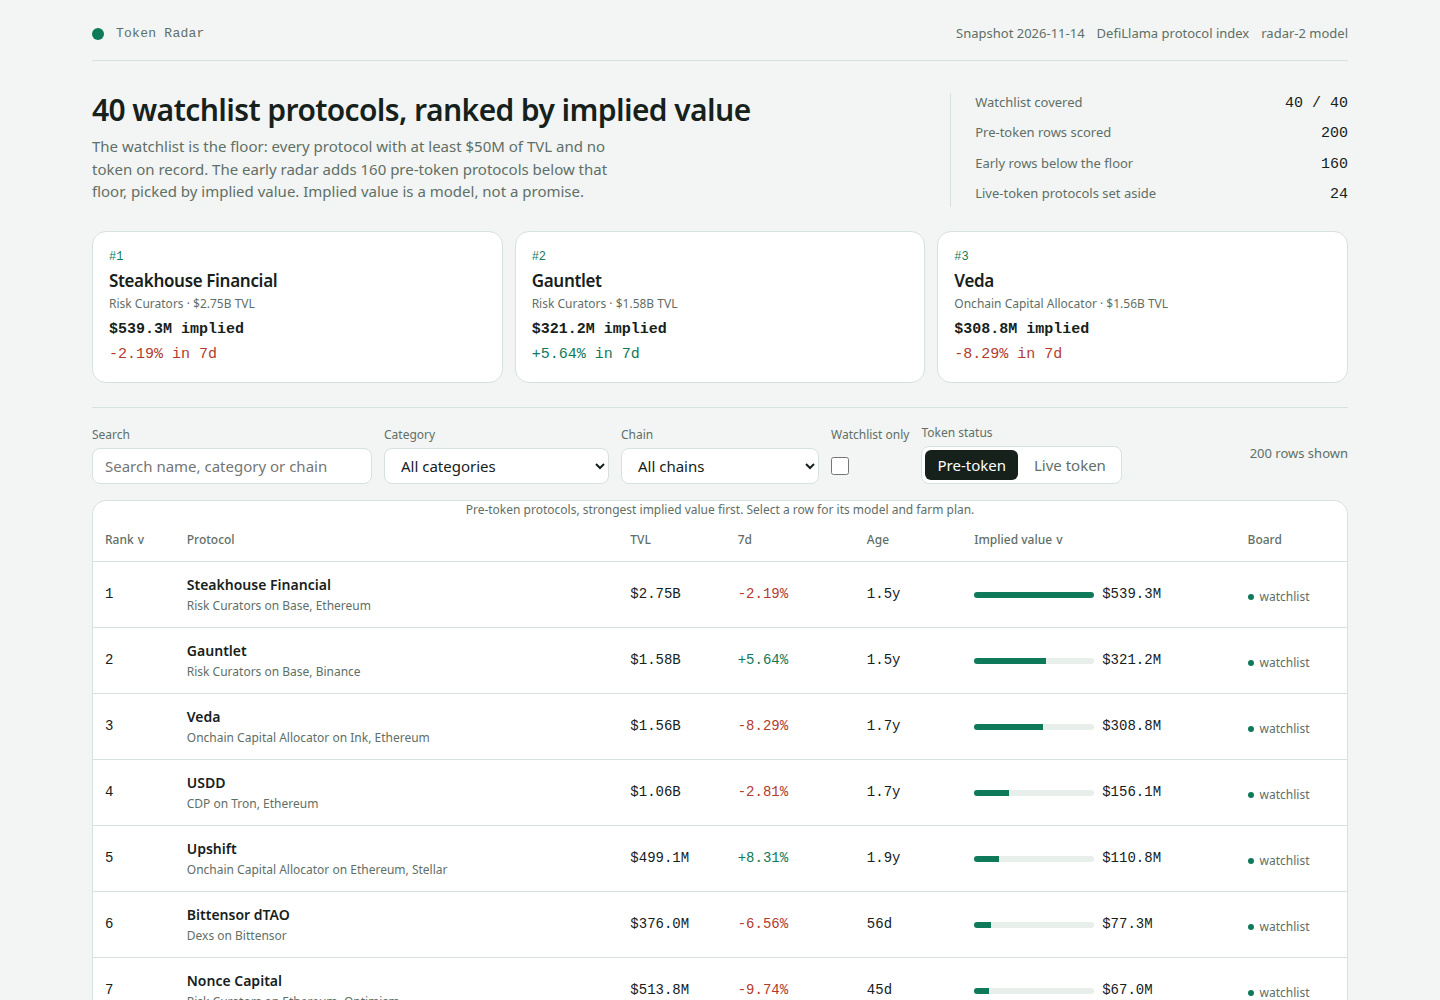
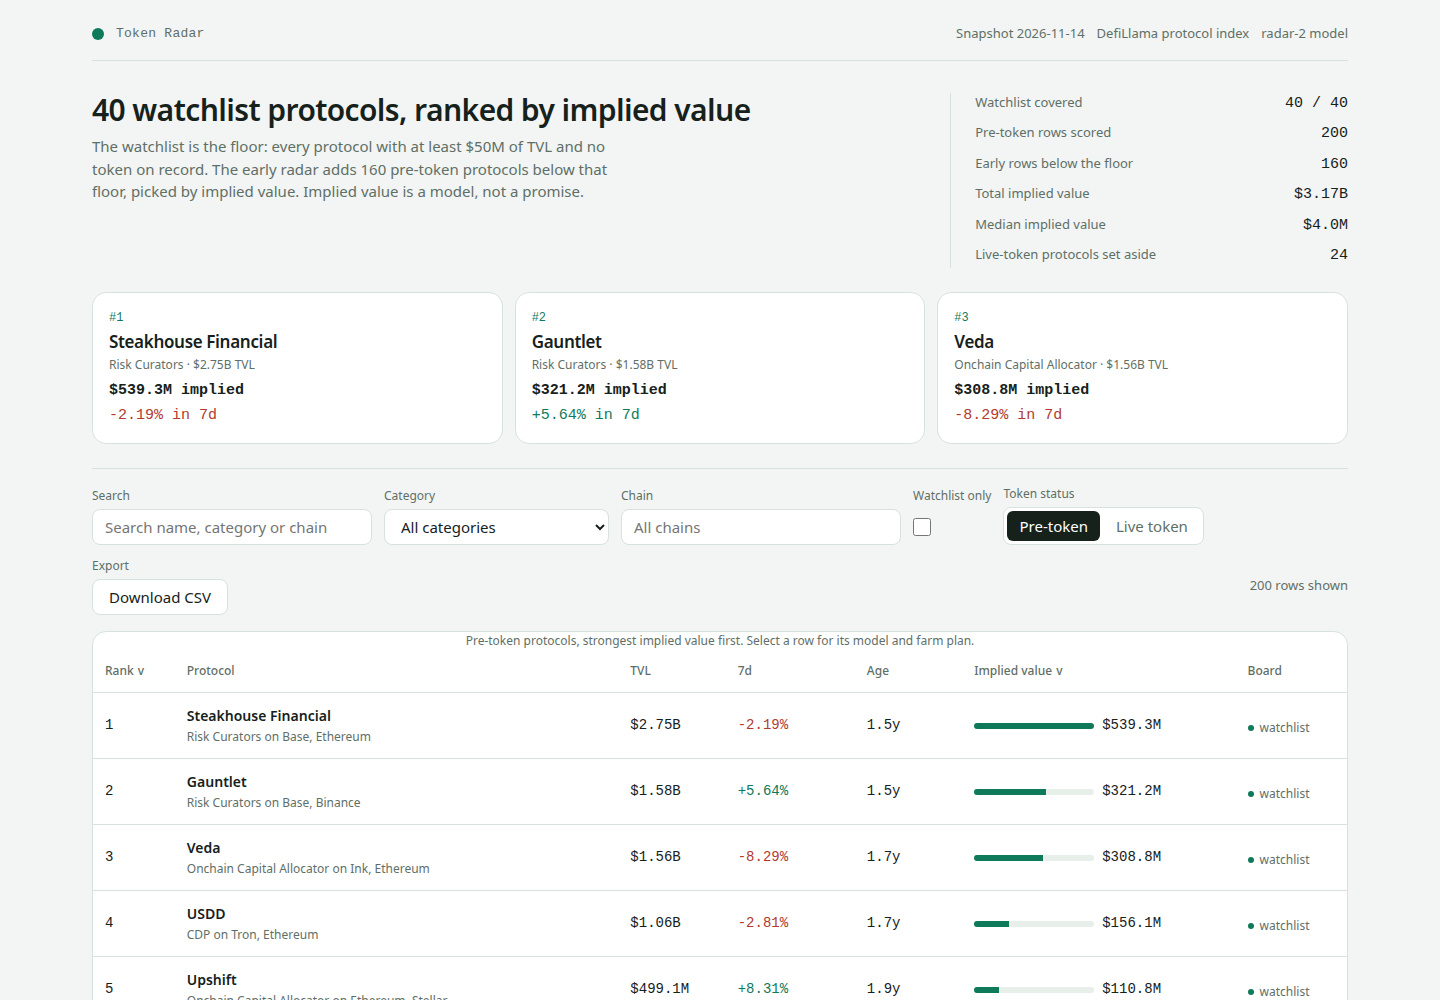
Authorship batch 2: parseSnapshot helpers, CSV export, board stats, chain datalist, README docs, fresh screenshots

diff --git a/dashboard/app.js b/dashboard/app.js
@@ -8,7 +8,7 @@
   var DATA = window.RADAR;
   if (!DATA) return;
   var app = document.getElementById('board');
-  var state = { q: '', category: 'all', chain: 'all', watchlistOnly: false, tab: 'pre-token', sort: 'implied', dir: -1, selected: null, sandbox: null };
+  var state = { q: '', category: 'all', chain: '', watchlistOnly: false, tab: 'pre-token', sort: 'implied', dir: -1, selected: null, sandbox: null };
   var WATCHLIST = {};
   (DATA.watchlist || []).forEach(function (s) { WATCHLIST[s] = true; });
 
@@ -157,7 +157,7 @@
     var params = new URLSearchParams();
     if (state.q) params.set('q', state.q);
     if (state.category !== 'all') params.set('category', state.category);
-    if (state.chain !== 'all') params.set('chain', state.chain);
+    if (state.chain) params.set('chain', state.chain);
     if (state.watchlistOnly) params.set('w', '1');
     if (state.selected) params.set('p', state.selected);
     var next = params.toString();
@@ -169,7 +169,7 @@
     var q = state.q.trim().toLowerCase();
     return DATA.rows.filter(function (r) {
       if (state.category !== 'all' && r.category !== state.category) return false;
-      if (state.chain !== 'all' && !(r.chains || []).some(function (c) { return c === state.chain; })) return false;
+      if (state.chain && !(r.chains || []).some(function (c) { return c.toLowerCase().indexOf(state.chain.toLowerCase()) >= 0; })) return false;
       if (state.watchlistOnly && !WATCHLIST[r.slug]) return false;
       if (!q) return true;
       var hay = [r.name, r.slug, r.category, (r.chains || []).join(' ')].join(' ').toLowerCase();
@@ -203,6 +203,9 @@
   }
 
   function lede() {
+    var total = DATA.rows.reduce(function (sum, r) { return sum + r.implied_value_usd; }, 0);
+    var sorted = DATA.rows.map(function (r) { return r.implied_value_usd; }).sort(function (a, b) { return a - b; });
+    var mid = sorted[Math.floor(sorted.length / 2)];
     return el('section', { class: 'lede' },
       el('div', null,
         el('h1', { text: DATA.watchlist_size + ' watchlist protocols, ranked by implied value' }),
@@ -212,6 +215,8 @@
         el('div', { class: 'fact' }, el('span', { text: 'Watchlist covered' }), el('b', { text: DATA.watchlist_size + ' / ' + DATA.watchlist_size })),
         el('div', { class: 'fact' }, el('span', { text: 'Pre-token rows scored' }), el('b', { text: String(DATA.board_size) })),
         el('div', { class: 'fact' }, el('span', { text: 'Early rows below the floor' }), el('b', { text: String(DATA.early_size) })),
+        el('div', { class: 'fact' }, el('span', { text: 'Total implied value' }), el('b', { text: fmtUsd(total) })),
+        el('div', { class: 'fact' }, el('span', { text: 'Median implied value' }), el('b', { text: fmtUsd(mid) })),
         el('div', { class: 'fact' }, el('span', { text: 'Live-token protocols set aside' }), el('b', { text: String(DATA.live_size) }))
       )
     );
@@ -237,7 +242,12 @@
     var categories = Array.from(new Set(DATA.rows.map(function (r) { return r.category || 'Other'; }))).sort();
     var chainCounts = {};
     DATA.rows.forEach(function (r) { (r.chains || []).forEach(function (c) { chainCounts[c] = (chainCounts[c] || 0) + 1; }); });
-    var chains = Object.keys(chainCounts).sort(function (a, b) { return chainCounts[b] - chainCounts[a]; }).slice(0, 12);
+    var chains = Object.keys(chainCounts).sort(function (a, b) { return chainCounts[b] - chainCounts[a]; });
+    var chainInput = el('input', { type: 'text', id: 'chain', list: 'chain-list', placeholder: 'All chains', value: state.chain, 'aria-label': 'Filter by chain' });
+    chainInput.addEventListener('input', function () { state.chain = chainInput.value; writeHash(); render(); });
+    var chainList = el('datalist', { id: 'chain-list' },
+      chains.map(function (c) { return el('option', { value: c, text: c + ' (' + chainCounts[c] + ')' }); })
+    );
     var search = el('input', { type: 'search', id: 'q', placeholder: 'Search name, category or chain', value: state.q, 'aria-label': 'Search the board' });
     search.addEventListener('input', function () { state.q = search.value; writeHash(); render(); });
     var select = el('select', { id: 'category', 'aria-label': 'Filter by category' },
@@ -245,23 +255,50 @@
       categories.map(function (c) { return el('option', { value: c, text: c, selected: c === state.category ? 'selected' : null }); })
     );
     select.addEventListener('change', function () { state.category = select.value; writeHash(); render(); });
-    var chainSelect = el('select', { id: 'chain', 'aria-label': 'Filter by chain' },
-      el('option', { value: 'all', text: 'All chains' }),
-      chains.map(function (c) { return el('option', { value: c, text: c + ' (' + chainCounts[c] + ')', selected: c === state.chain ? 'selected' : null }); })
-    );
-    chainSelect.addEventListener('change', function () { state.chain = chainSelect.value; writeHash(); render(); });
     var wl = el('input', { type: 'checkbox', id: 'watchlist-only', checked: state.watchlistOnly ? 'checked' : null });
     wl.addEventListener('change', function () { state.watchlistOnly = wl.checked; writeHash(); render(); });
     var pre = el('button', { type: 'button', 'aria-pressed': state.tab === 'pre-token' ? 'true' : 'false', text: 'Pre-token', onclick: function () { state.tab = 'pre-token'; render(); } });
     var live = el('button', { type: 'button', 'aria-pressed': state.tab === 'live' ? 'true' : 'false', text: 'Live token', onclick: function () { state.tab = 'live'; render(); } });
+    var csv = el('button', { class: 'button', type: 'button', text: 'Download CSV', onclick: function () { downloadCsv(); } });
     return el('div', { class: 'controls' },
       el('div', { class: 'field' }, el('label', { for: 'q', text: 'Search' }), search),
       el('div', { class: 'field' }, el('label', { for: 'category', text: 'Category' }), select),
-      el('div', { class: 'field' }, el('label', { for: 'chain', text: 'Chain' }), chainSelect),
+      el('div', { class: 'field' }, el('label', { for: 'chain', text: 'Chain' }), chainInput, chainList),
       el('div', { class: 'field check' }, el('label', { for: 'watchlist-only', text: 'Watchlist only' }), wl),
       el('div', { class: 'field' }, el('span', { class: 'sub', text: 'Token status' }), el('div', { class: 'tabs' }, pre, live)),
+      el('div', { class: 'field' }, el('span', { class: 'sub', text: 'Export' }), csv),
       el('span', { class: 'count', text: state.tab === 'pre-token' ? rows().length + ' rows shown' : DATA.live.length + ' live-token protocols' })
     );
+  }
+
+  // The board as a spreadsheet: the rows on screen, in the order on screen, with the canonical
+  // implied values. A download, not a link: the page stays offline.
+  function downloadCsv() {
+    var list = state.tab === 'pre-token' ? sortedRows(rows()) : DATA.live;
+    function cell(v) {
+      var s = v === null || v === undefined ? '' : String(v);
+      return /[",\n]/.test(s) ? '"' + s.replace(/"/g, '""') + '"' : s;
+    }
+    var lines = ['rank,name,slug,category,chains,tvl_usd,change_7d,age_days,implied_value_usd'];
+    list.forEach(function (r) {
+      lines.push([
+        r.rank !== undefined ? r.rank : 'live',
+        cell(r.name), cell(r.slug), cell(r.category || ''),
+        cell((r.chains || []).join(';')),
+        r.tvl_usd, r.change_7d === null ? '' : r.change_7d,
+        r.age_days === null || r.age_days === undefined ? '' : r.age_days,
+        r.implied_value_usd !== undefined ? r.implied_value_usd : ''
+      ].join(','));
+    });
+    var blob = new Blob([lines.join('\n') + '\n'], { type: 'text/csv;charset=utf-8' });
+    var url = URL.createObjectURL(blob);
+    var a = document.createElement('a');
+    a.href = url;
+    a.download = 'token-radar-' + DATA.as_of + '.csv';
+    document.body.appendChild(a);
+    a.click();
+    a.remove();
+    setTimeout(function () { URL.revokeObjectURL(url); }, 1000);
   }
 
   function sortHeader(key, label) {
@@ -279,7 +316,7 @@
       return el('div', { class: 'panel' }, el('div', { class: 'empty' },
         el('h2', { text: 'No protocol matches that filter' }),
         el('p', { text: 'Clear the search or pick another category to see the board again.' }),
-        el('button', { class: 'button primary', type: 'button', text: 'Clear filters', onclick: function () { state.q = ''; state.category = 'all'; state.chain = 'all'; state.watchlistOnly = false; writeHash(); render(); } })
+        el('button', { class: 'button primary', type: 'button', text: 'Clear filters', onclick: function () { state.q = ''; state.category = 'all'; state.chain = ''; state.watchlistOnly = false; writeHash(); render(); } })
       ));
     }
     var max = effectiveValue(list[0]) || 1;

diff --git a/lib/model.ts b/lib/model.ts
@@ -566,6 +566,47 @@ export function buildRadar(snapshot: Snapshot, model: ModelConstants = MODEL): {
   return { board, radar };
 }
 
+/** A nullable finite number from an unknown value, else null. */
+function asNullableNumber(value: unknown): number | null {
+  return typeof value === 'number' && Number.isFinite(value) ? value : null;
+}
+
+/** A nullable string from an unknown value, else null. */
+function asNullableString(value: unknown): string | null {
+  return typeof value === 'string' ? value : null;
+}
+
+/** The string entries of an unknown value, else an empty list. */
+function asStringArray(value: unknown): string[] {
+  return Array.isArray(value) ? value.filter((c): c is string => typeof c === 'string') : [];
+}
+
+/** One protocol entry out of a snapshot's protocols array, refused unless it is scorable. */
+function parseProtocol(value: unknown, i: number): SnapshotProtocol {
+  if (typeof value !== 'object' || value === null || Array.isArray(value)) {
+    throw new SnapshotError(`snapshot.json's protocol ${i} is not an object`);
+  }
+  const p = value as Record<string, unknown>;
+  if (typeof p.slug !== 'string' || typeof p.name !== 'string' || typeof p.tvl_usd !== 'number' || !Number.isFinite(p.tvl_usd)) {
+    throw new SnapshotError(`snapshot.json's protocol ${i} lacks a slug, a name or a TVL`);
+  }
+  if (p.tvl_usd < 0) {
+    throw new SnapshotError(`snapshot.json's protocol ${i} (${p.slug}) has a negative TVL`);
+  }
+  return {
+    slug: p.slug,
+    name: p.name,
+    category: asNullableString(p.category),
+    chains: asStringArray(p.chains),
+    tvl_usd: p.tvl_usd,
+    change_7d: asNullableNumber(p.change_7d),
+    mcap_usd: asNullableNumber(p.mcap_usd),
+    listed_at: asNullableString(p.listed_at),
+    gecko_id: asNullableString(p.gecko_id),
+    symbol: asNullableString(p.symbol),
+  };
+}
+
 /** The snapshot out of a file's text, refused unless it is the shape the model scores. */
 export function parseSnapshot(text: string): Snapshot {
   let raw: unknown;
@@ -581,30 +622,11 @@ export function parseSnapshot(text: string): Snapshot {
   if (typeof o.floor_usd !== 'number' || !Number.isSafeInteger(o.floor_usd) || o.floor_usd <= 0) throw new SnapshotError('snapshot.json has no floor_usd');
   if (!Array.isArray(o.protocols)) throw new SnapshotError('snapshot.json has no protocols array');
   if (!Array.isArray(o.watchlist) || o.watchlist.some((s) => typeof s !== 'string')) throw new SnapshotError('snapshot.json has no watchlist of slugs');
-  const protocols = o.protocols.map((v, i) => {
-    if (typeof v !== 'object' || v === null || Array.isArray(v)) throw new SnapshotError(`snapshot.json's protocol ${i} is not an object`);
-    const p = v as Record<string, unknown>;
-    if (typeof p.slug !== 'string' || typeof p.name !== 'string' || typeof p.tvl_usd !== 'number' || !Number.isFinite(p.tvl_usd)) {
-      throw new SnapshotError(`snapshot.json's protocol ${i} lacks a slug, a name or a TVL`);
-    }
-    return {
-      slug: p.slug,
-      name: p.name,
-      category: typeof p.category === 'string' ? p.category : null,
-      chains: Array.isArray(p.chains) ? p.chains.filter((c): c is string => typeof c === 'string') : [],
-      tvl_usd: p.tvl_usd,
-      change_7d: typeof p.change_7d === 'number' && Number.isFinite(p.change_7d) ? p.change_7d : null,
-      mcap_usd: typeof p.mcap_usd === 'number' && Number.isFinite(p.mcap_usd) ? p.mcap_usd : null,
-      listed_at: typeof p.listed_at === 'string' ? p.listed_at : null,
-      gecko_id: typeof p.gecko_id === 'string' ? p.gecko_id : null,
-      symbol: typeof p.symbol === 'string' ? p.symbol : null,
-    };
-  });
   return {
     as_of: o.as_of,
     source: o.source,
     floor_usd: o.floor_usd,
-    protocols,
+    protocols: o.protocols.map((v, i) => parseProtocol(v, i)),
     watchlist: o.watchlist as string[],
   };
 }

diff --git a/dashboard/index.html b/dashboard/index.html
@@ -3,12 +3,15 @@
 <head>
 <meta charset="utf-8">
 <meta name="viewport" content="width=device-width, initial-scale=1">
+<meta name="description" content="Token Radar ranks pre-token protocols by implied launch value, learned from the market's own pricing of live tokens.">
+<meta name="theme-color" content="#0f7a5a">
 <title>Token Radar: pre-token protocols ranked by implied value</title>
 <link rel="stylesheet" href="app.css">
 </head>
 <body>
 <a class="skip" href="#board">Skip to the board</a>
 <main id="board" tabindex="-1" aria-busy="true"></main>
+<noscript><p class="noscript">Token Radar needs JavaScript: the board is rendered in your browser from the snapshot data beside this page, with no network.</p></noscript>
 <script src="../data.js"></script>
 <script src="app.js"></script>
 </body>

diff --git a/dashboard/app.css b/dashboard/app.css
@@ -128,8 +128,8 @@ tbody tr[data-selected="true"] { background: color-mix(in srgb, var(--accent) 8%
 .steps b { display: block; font-weight: 500; }
 .cost { color: var(--muted); font-size: 12px; font-family: var(--font-num); }
 
-.spotlight { display: grid; grid-template-columns: repeat(3, 1fr); gap: var(--step-3); padding-bottom: var(--step-5); }
-.spot {
+.noscript { max-width: 1320px; margin: var(--step-5) auto; padding: 0 var(--step-6); color: var(--muted); }
+.spotlight { display: grid; grid-template-columns: repeat(3, 1fr); gap: var(--step-3); padding-bottom: var(--step-5); }.spot {
   display: grid; gap: 2px; text-align: left; padding: var(--step-4);
   background: var(--surface); border: 1px solid var(--border); border-radius: var(--radius-panel);
 }

diff --git a/README.md b/README.md
@@ -6,15 +6,41 @@
 
 Token Radar (model radar-2): ranks pre-token protocols by implied launch value from a sealed DefiLlama snapshot (758 protocols, 2026-11-14). The board covers all 40 watchlist protocols plus 160 early-radar rows below the $50M floor, picked by implied value.
 
-The multiple is the market's own pricing, learned from the snapshot: each category's median market-cap / TVL over its live-token protocols (at least 3; fewer, and the global median is used), clamped to [0.05, 1.0]. Implied value is TVL × multiple × a growth factor (7-day change, clamped) × a maturity factor (time listed with no token) × a chain-breadth factor. No protocol name is special-cased; the same function scores every row, and the dashboard recomputes each row from the same figures.
+## The model
 
-The static dashboard (no network) shows the ranked board with search, category and chain filters, a watchlist toggle, a top-3 spotlight, the category multiples table, and a per-protocol detail drawer with the full model breakdown and a 7-step farm plan (action, cost, time, and a risk line derived from the protocol's own record).
+The multiple is the market's own pricing, learned from the snapshot: each category's median market-cap / TVL over its live-token protocols (at least 3; fewer, and the global median is used), clamped to [0.05, 1.0]. Implied value is:
+
+```
+implied = round( tvl_usd x category_multiple
+  x (1 + clamp(change_7d, -60, 120) / 100 x 0.5)
+  x (0.6 + min(age_days, 1095) / 1095 x 0.4)
+  x (1 + 0.04 x min(chains - 1, 4)) )
+```
+
+No protocol name is special-cased; the same function scores every row, and the dashboard recomputes each row from the same figures and checks the number board.json carries. The category multiples the snapshot taught (14 categories, with the live-protocol count behind each) are shown in the dashboard's model panel.
+
+## The dashboard
+
+A static page (no network, no framework) that shows the ranked board with search, category and chain filters, a watchlist toggle, a top-3 spotlight, and a per-protocol detail drawer with the full model breakdown and a 7-step farm plan (action, cost, time, and a risk line derived from the protocol's own record). It also has:
+
+- a **model sandbox**: change the growth weight, the multiple scale and the breadth step and the board re-ranks in the browser. The sandbox never touches board.json; the canonical board stays as the model scored it.
+- a **CSV export** of the rows on screen, in the order on screen.
 
 ## Run it
 
 ```sh
 MAKEFUN_OUTPUT_DIR=out node main.ts --input path/to/snapshot.json
 ```
+
+`--model key=value,...` overrides model constants for an experiment run (for example `--model growth_weight=1,multiple_cap=0.5`); overrides are validated and refused when they leave the sane ranges. The run prints the multiples learned and the top 3, and warns when a screenshot falls outside the dossier's 300–350 KB guidance.
+
+## Layout
+
+- `main.ts` — the entrypoint: reads the snapshot, scores the board, writes `board.json`, `data.js`, the dashboard, the screenshots and `dossier.json`.
+- `lib/model.ts` — the model, the board builder, the farm plans and the snapshot parser.
+- `dashboard/` — the static page (`index.html`, `app.css`, `app.js`).
+- `screenshots/` — three real renders of the page: the board, a detail view, a filtered view.
+- `vendor/makefun-board.ts` — the kit's vendored dossier builder, unchanged.
 
 ---
 
